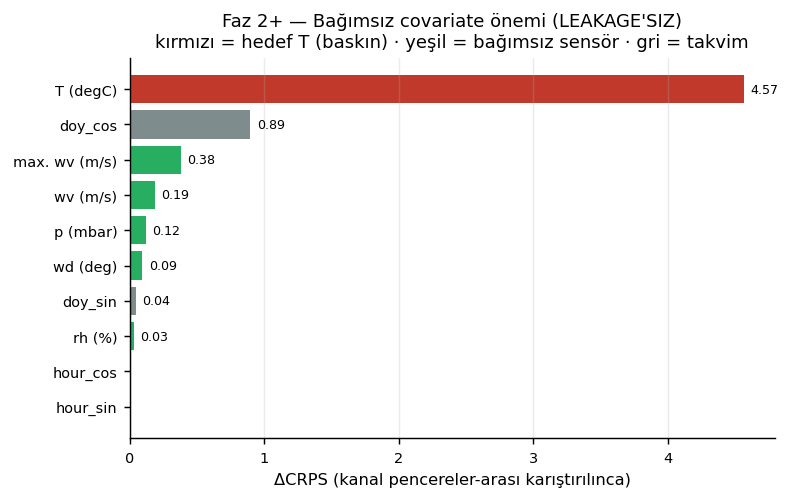
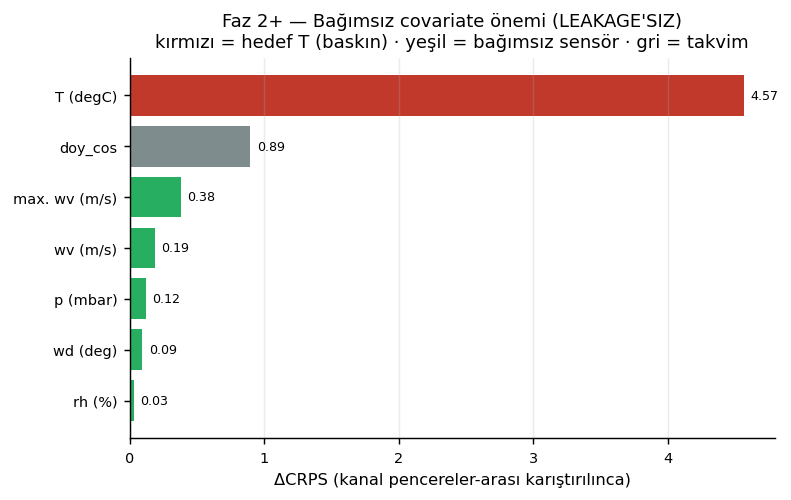
Trim covariate-importance report table/figure to report-ready form
Per report scope: drop hour_sin/cos (stride-24 artefact, ~0) and doy_sin
(~0.04, doy_cos already carries the season) from the report version. Only
Table B goes into the report; Table A (input-value/leakage story) marked
as background-only. report_ideas.md updated accordingly; figure
regenerated with 7 rows (T + doy_cos + 5 independent sensors).

Changed region(s): [[0.0303, 0.15, 1.0, 0.84], [0.0, 0.39, 0.1517, 0.42]]

diff --git a/scripts/make_phase_figures.py b/scripts/make_phase_figures.py
@@ -285,7 +285,11 @@ def fig_p2_covariate_independent() -> None:
     if not p.exists():
         return
     d = json.loads(p.read_text())
-    rows = sorted(d["splits"]["test"]["permuted"].items(),
+    # report version: drop uninformative channels (hour: stride-24 artefact,
+    # doy_sin: ~0, doy_cos already carries the season)
+    SKIP = {"hour_sin", "hour_cos", "doy_sin"}
+    rows = sorted((kv for kv in d["splits"]["test"]["permuted"].items()
+                   if kv[0] not in SKIP),
                   key=lambda kv: kv[1]["delta_crps"])
     names, vals, cs = [], [], []
     for n, v in rows: